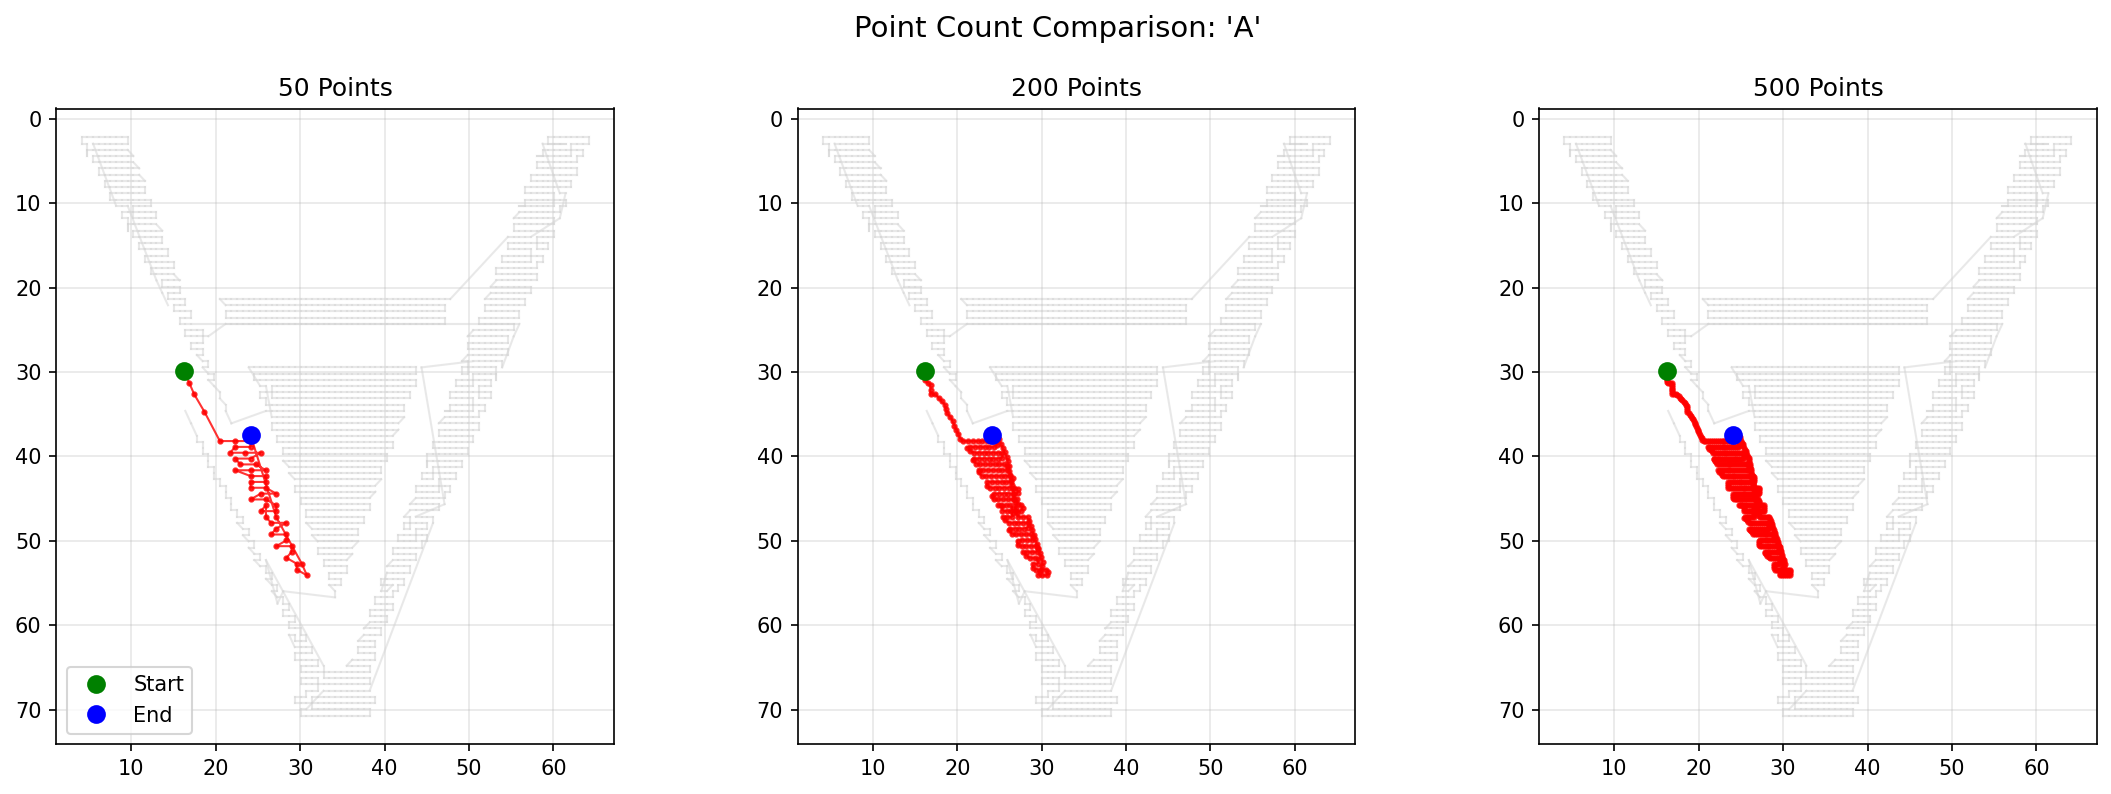
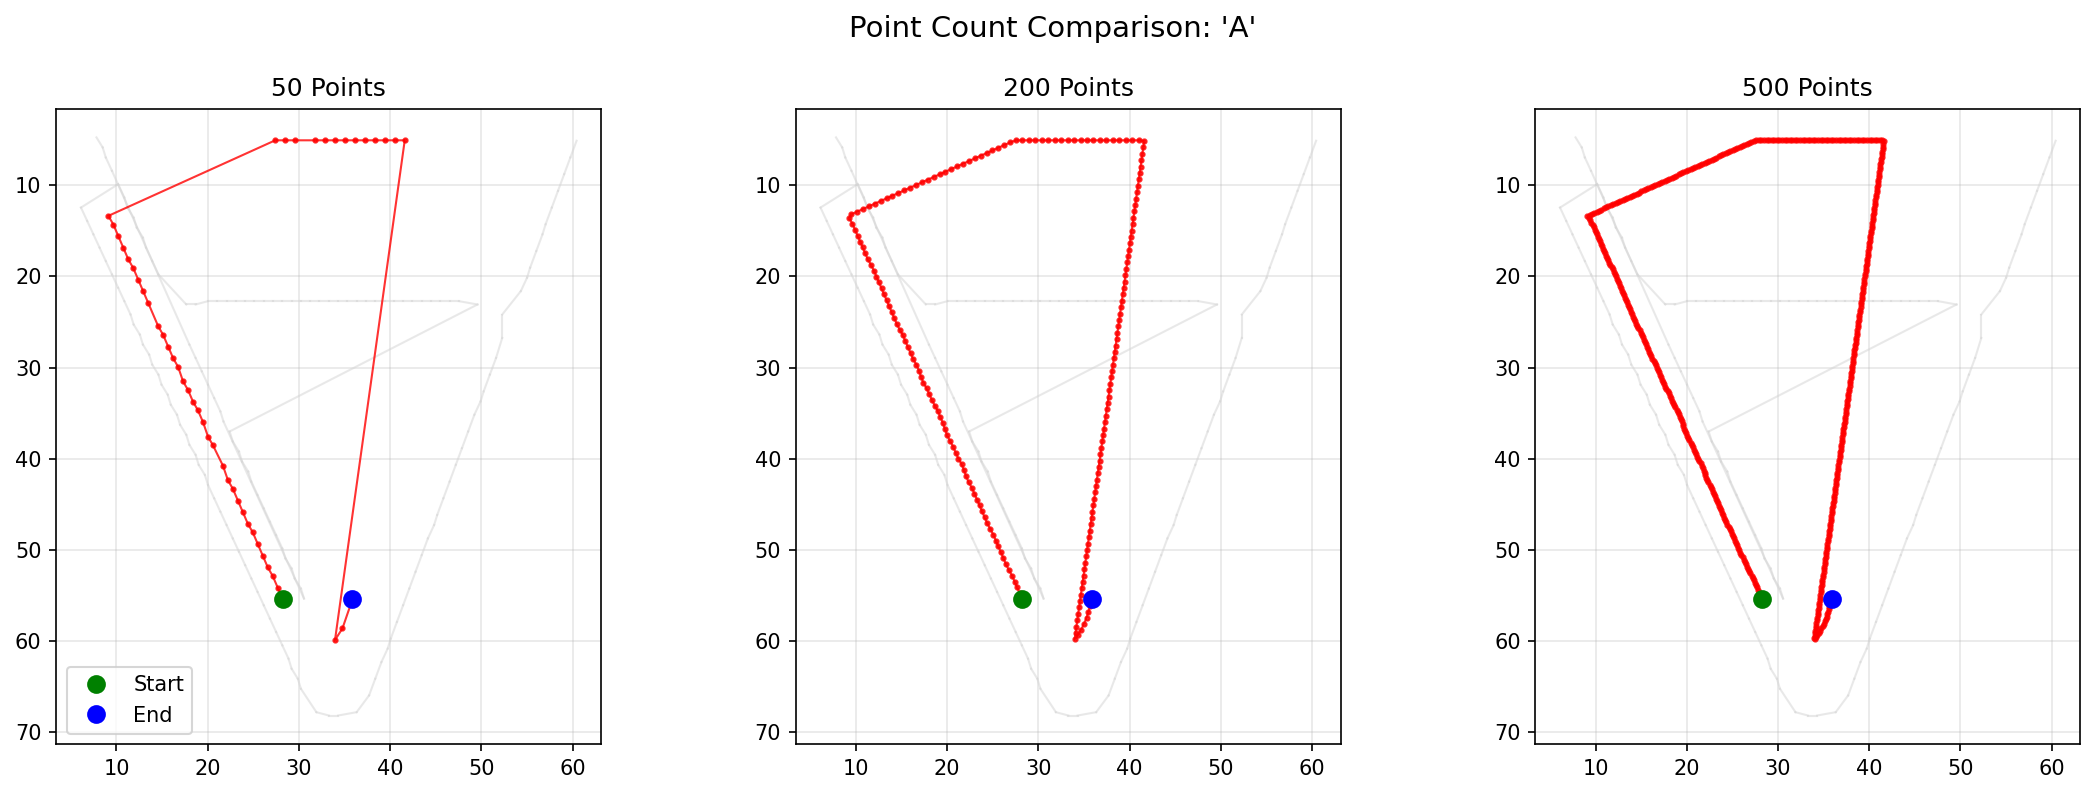
save

diff --git a/src/text_extractor.py b/src/text_extractor.py
@@ -4,7 +4,6 @@ Text extraction module - handles font path extraction and contour point sampling
 """
 
 import numpy as np
-import os
 from matplotlib import font_manager
 from matplotlib.path import Path
 import matplotlib.pyplot as plt
@@ -1218,14 +1217,20 @@ class TextExtractor:
         # Plot path segments according to codes
         from matplotlib.path import Path as MPLPath
         
+        # Track if we've added a label yet
+        label_used = False
+        
         current_pos = None
         for i, (vertex, code) in enumerate(zip(vertices, codes)):
             if code == MPLPath.MOVETO:
                 current_pos = vertex
             elif code == MPLPath.LINETO:
                 if current_pos is not None:
+                    # Only add label to first line segment
+                    line_label = label if not label_used else None
                     ax.plot([current_pos[0], vertex[0]], [current_pos[1], vertex[1]], 
-                           color=color, alpha=alpha, linewidth=1)
+                           color=color, alpha=alpha, linewidth=1, label=line_label)
+                    label_used = True
                 current_pos = vertex
             elif code == MPLPath.CLOSEPOLY:
                 # Close the path back to the start of current segment
@@ -1237,8 +1242,10 @@ class TextExtractor:
                             start_vertex = vertices[j]
                             break
                     if start_vertex is not None:
+                        line_label = label if not label_used else None
                         ax.plot([current_pos[0], start_vertex[0]], [current_pos[1], start_vertex[1]], 
-                               color=color, alpha=alpha, linewidth=1)
+                               color=color, alpha=alpha, linewidth=1, label=line_label)
+                        label_used = True
     
     def preview_skeleton_extraction_steps(self, text, font_size=100, save_path=None):
         """
@@ -1277,7 +1284,10 @@ class TextExtractor:
             ax_top.set_aspect('equal')
             ax_top.grid(True, alpha=0.2)
             ax_top.set_title('Step 1: Outline + Sampling Grid')
-            ax_top.legend()
+            # Only show legend if there are labeled elements
+            handles, labels = ax_top.get_legend_handles_labels()
+            if handles:
+                ax_top.legend()
             ax_top.invert_yaxis()
             
             # Bottom subplot: Skeleton extraction result
@@ -1299,7 +1309,10 @@ class TextExtractor:
             ax_bottom.set_aspect('equal')
             ax_bottom.grid(True, alpha=0.2)
             ax_bottom.set_title(f'Step 2: Extracted Skeleton\n({len(skeleton_points)} points)')
-            ax_bottom.legend()
+            # Only show legend if there are labeled elements
+            handles, labels = ax_bottom.get_legend_handles_labels()
+            if handles:
+                ax_bottom.legend()
             ax_bottom.invert_yaxis()
         
         plt.tight_layout()
